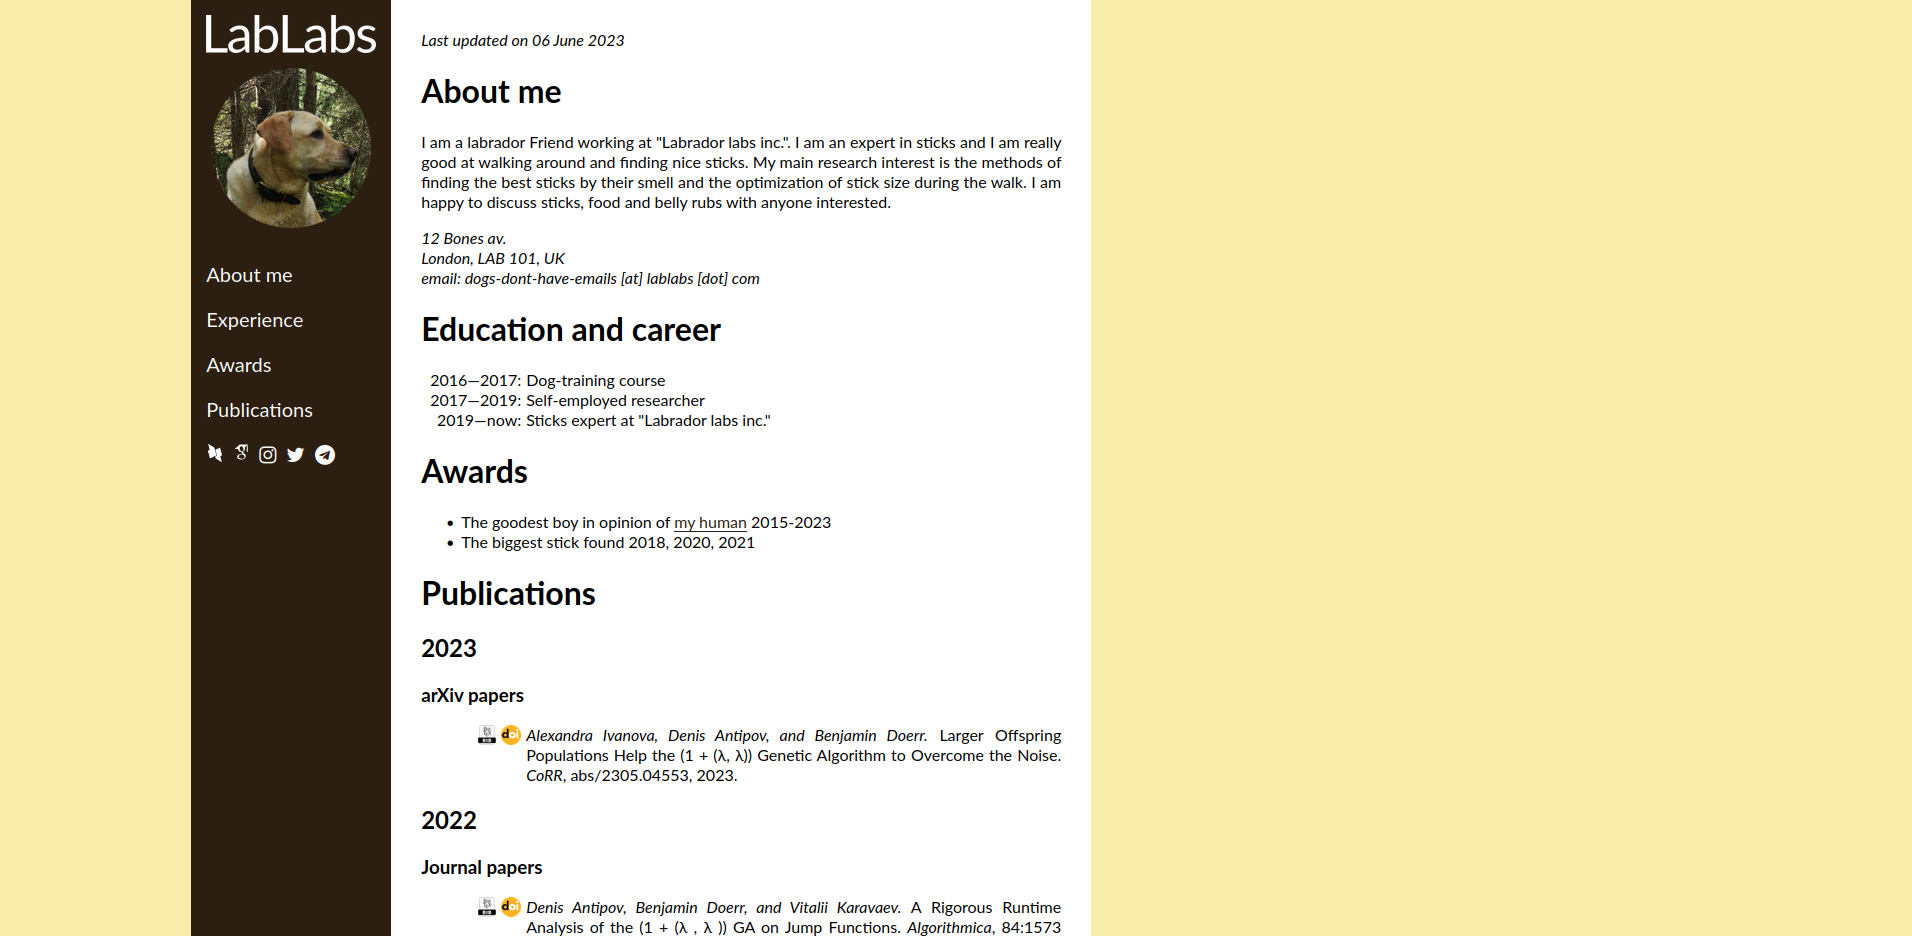
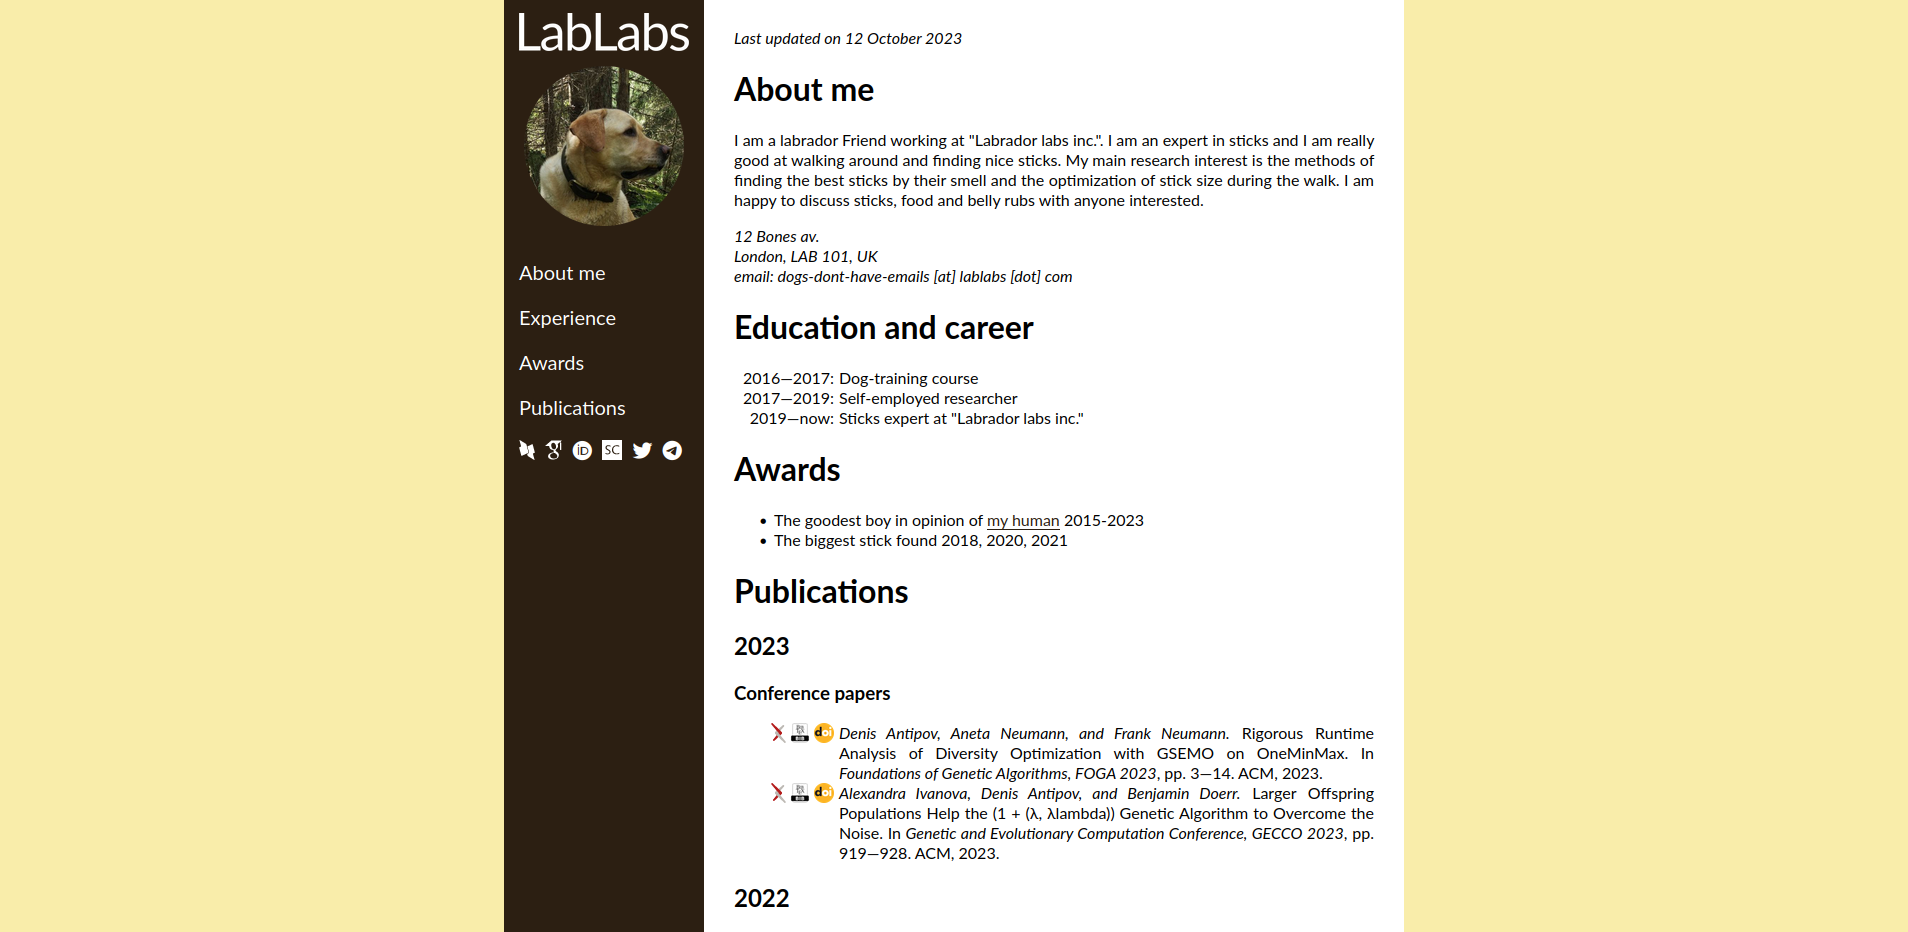
centralized content

diff --git a/template.html b/template.html
@@ -11,78 +11,78 @@
 </head>
 <body>
 
-    <div class="ceter-wrapper">
-    <nav class="sidebar sidebar-background sidebar-text" id="sidebar">
-        <a href="https://en.wikipedia.org/wiki/Labrador_Retriever" target="_blank"><img class="unilogo" src="images/UniLogo.png" alt="Uni logo" width="100"></a>
-        <a href="#" onclick="close_sidebar()" class="close-sidebar-button hover-background-color" title="close menu">
-            <i class="fa fa-remove"></i>
-        </a>
-        <img class="photo" src="images/me.jpg" alt="Photo of a handsome person">
-        <ul class="navi-menu">
-            {}
-        </ul>
-        <!-- list of contacts and social media links-->
+    <div class="center-wrapper">
+        <nav class="sidebar sidebar-background sidebar-text" id="sidebar">
+            <a href="https://en.wikipedia.org/wiki/Labrador_Retriever" target="_blank"><img class="unilogo" src="images/UniLogo.png" alt="Uni logo" width="100"></a>
+            <a href="#" onclick="close_sidebar()" class="close-sidebar-button hover-background-color" title="close menu">
+                <i class="fa fa-remove"></i>
+            </a>
+            <img class="photo" src="images/me.jpg" alt="Photo of a handsome person">
+            <ul class="navi-menu">
+                {}
+            </ul>
+            <!-- list of contacts and social media links-->
 
-        <div class="social-links-block">
-            {}
+            <div class="social-links-block">
+                {}
+            </div>
+
+        </nav>
+
+        <div class="overlay" onclick="close_sidebar()" title="close menu" id="overlay"></div>
+        <a href="#" class="up-button" id="up-btn"><i class="fa fa-chevron-up"></i></a>
+
+        <div class="main">
+            <div class="header content-background">
+                <span class="open-sidebar-button hover-background-color open-sidebar-button-color" onclick="open_sidebar()"><i class="fa fa-bars"></i></span>
+                <img class="small-photo" src="images/me.jpg" alt="Photo of a handsome person">
+            </div>
+
+            
+            <div class="content content-background">
+                <p style="margin:0px"><i>Last updated on {}</i></p>
+                {}
+            </div>
         </div>
 
-    </nav>
-
-    <div class="overlay" onclick="close_sidebar()" title="close menu" id="overlay"></div>
-    <a href="#" class="up-button" id="up-btn"><i class="fa fa-chevron-up"></i></a>
-
-    <div class="main">
-        <div class="header content-background">
-            <span class="open-sidebar-button hover-background-color open-sidebar-button-color" onclick="open_sidebar()"><i class="fa fa-bars"></i></span>
-            <img class="small-photo" src="images/me.jpg" alt="Photo of a handsome person">
-        </div>
-
-        
-        <div class="content content-background">
-            <p style="margin:0px"><i>Last updated on {}</i></p>
-            {}
-        </div>
-    </div>
-
-    <script>
-        function open_sidebar() {{
-            document.getElementById("sidebar").style.display = "block";
-            document.getElementById("overlay").style.display = "block";
-        }}
-        
-        function close_sidebar() {{
-            document.getElementById("sidebar").style.display = "none";
-            document.getElementById("overlay").style.display = "none";
-        }}
-
-        function close_all_bibtex_windows() {{
-            var dropdowns = document.getElementsByClassName("bibtex-window");
-            var i;
-            for (i = 0; i < dropdowns.length; i++) {{
-                dropdowns[i].style.display = "none"
+        <script>
+            function open_sidebar() {{
+                document.getElementById("sidebar").style.display = "block";
+                document.getElementById("overlay").style.display = "block";
             }}
-        }}
+            
+            function close_sidebar() {{
+                document.getElementById("sidebar").style.display = "none";
+                document.getElementById("overlay").style.display = "none";
+            }}
 
-        function show(id) {{
-            close_all_bibtex_windows()
-            document.getElementById(id).style.display = "block";
-        }}
+            function close_all_bibtex_windows() {{
+                var dropdowns = document.getElementsByClassName("bibtex-window");
+                var i;
+                for (i = 0; i < dropdowns.length; i++) {{
+                    dropdowns[i].style.display = "none"
+                }}
+            }}
 
-        window.onclick = function(event) {{
-            if (!event.target.classList.contains('image-button') && !event.target.classList.contains('bibtex-window')  && event.target.tagName != 'PRE') {{
+            function show(id) {{
                 close_all_bibtex_windows()
+                document.getElementById(id).style.display = "block";
             }}
-        }}
 
-        window.onscroll = function() {{
-            if (document.body.scrollTop > 20 || document.documentElement.scrollTop > 20) {{
-                document.getElementById("up-btn").style.display = "block";
-            }} else {{
-                document.getElementById("up-btn").style.display = "none";
+            window.onclick = function(event) {{
+                if (!event.target.classList.contains('image-button') && !event.target.classList.contains('bibtex-window')  && event.target.tagName != 'PRE') {{
+                    close_all_bibtex_windows()
+                }}
             }}
-        }}
-    </script>
+
+            window.onscroll = function() {{
+                if (document.body.scrollTop > 20 || document.documentElement.scrollTop > 20) {{
+                    document.getElementById("up-btn").style.display = "block";
+                }} else {{
+                    document.getElementById("up-btn").style.display = "none";
+                }}
+            }}
+        </script>
     </div>
 </body>
 

diff --git a/styles.css b/styles.css
@@ -4,7 +4,6 @@ body {
     font-size: 16px;
     /* color 3 */
     background-color: #f9edaa;
-    padding-left: 10%;
 }
 
 .sidebar-background, .up-button{
@@ -169,7 +168,6 @@ body {
     height: 100%;
     width: 200px;
     position: fixed;
-    left: 10%;
     top: 0;
     z-index: 2;
     overflow: auto;
@@ -228,6 +226,11 @@ body {
     text-align: justify;
 }
 
+.center-wrapper {
+    display: flex;
+    margin: auto;
+}
+
 @media (max-width:899px) {
     .sidebar {
         display: none;
@@ -244,6 +247,7 @@ body {
     
     .main {
         margin-left:0px;
+        width: 100%;
     }
 
     .unilogo {
@@ -251,7 +255,11 @@ body {
     }
 
     .content {
-        max-width: 100%;
+        width: 100%;
+    }
+
+    .center-wrapper {
+        width: 100%;
     }
 
     .list-item {
@@ -277,31 +285,15 @@ body {
     }
 
     .content {
-        max-width: 640px;
+        width: 640px;
     }
 
     .list-item {
         min-width: 100px;
     }
-}
 
-@media (max-width:1199px){
-    body {
-        padding-left: 0px;
-    }
-
-    .sidebar {
-        left: 0;
-    }
-}
-
-@media (min-width:1200px){
-    body {
-        padding-left: 10%;
-    }
-
-    .sidebar {
-        left: 10%;
+    .center-wrapper {
+        width: 900px;
     }
 }
 

diff --git a/publications.py b/publications.py
@@ -51,7 +51,8 @@ def gen_html_by_database(bib_database, rename_conferences=False):
             entry['OPTeditor'] = entry.pop('editor')
         unnecessary_fields = ['timestamp', 'biburl', 'bibsource', 'IDsuffix']
         for field in unnecessary_fields:
-            del entry[field]
+            if field in entry:
+                del entry[field]
 
     # renaming conferences and journals, 
     # this part of the script must be customized according to your personal needs and preferences
@@ -62,7 +63,10 @@ def gen_html_by_database(bib_database, rename_conferences=False):
                     continue
                 # GECCO
                 if 'GECCO' in entry['booktitle']:
-                    entry['booktitle'] = 'Genetic and Evolutionary Computation Conference, {{GECCO}} {}'.format(entry['year'])
+                    if 'Companion' in entry['booktitle']:
+                        entry['booktitle'] = 'Genetic and Evolutionary Computation Conference Companion, {{GECCO}} {}'.format(entry['year'])
+                    else:
+                        entry['booktitle'] = 'Genetic and Evolutionary Computation Conference, {{GECCO}} {}'.format(entry['year'])
                 # PPSN
                 if 'PPSN' in entry['booktitle']:
                     if 'Part' in entry['booktitle']: 

diff --git a/README.md b/README.md
@@ -11,7 +11,7 @@ This is a simple generator of a personal page, which is optimized for the people
     - \[Optional\] Prepare a bibliography file to be added to your webpage
 3. Run the generator script
     - Prepare the dependencies (Python 3 and several packages for it)
-    - If you chose to add the list of publications, this script will try to add a link to arXiv to your conference or journal papers, but sometimes it needs some assistance from you
+    - If you chose to add the list of publications, this script will try to add an arXiv link to your conference or journal papers, but sometimes it needs some assistance from you
 4. Put the generated `index.html` file together with `styles.css` and the folders `fonts` and `images` to your server
  
 ## Example pages
@@ -36,12 +36,8 @@ Mobile view (with open and closed menu):
 
 Wide screen view:
 
-
 <img src='./screenshots/desktop.png' height=400pt> 
 
-Half-screen view (no margin to the left from the menu):
-
-<img src='./screenshots/desktop-half.png' height=400pt> 
 
 # Adjusting the design
 
@@ -57,14 +53,14 @@ Most universities and companies have their own corporate style, which includes t
 2. Sidebar text color *(suggestion: choose white color or the whitest color from palette)*
 3. Margin color *(suggestion: choose some kind of light color, or you can choose a sidebar color and add some opacity to it)*
 4. Content background color *(suggestion: choose white)*
-5. Background color for buttons when you hover over them *(suggestion: choose something brighter than the background, but text in sidebar-text-color must look well on it)
+5. Background color for buttons when you hover over them *(suggestion: choose something brighter than the background, but text in sidebar-text-color must look well on it)*
 6. [Optional] The color for the links on the page *(suggestion: choose the sidebar color for the visited links and the background color for buttons for the unvisited links)*
 
 The screenshot below explains the colors in the webpage:
 
 <img src='./screenshots/colors-illustration.png' height=400pt> 
 
-To setup corresponding colors yoy should edit `styles.css` file. The comments in that file indicate, where you should change the colors. Note that all necessary colors are set up in the beginning of the file, in the first 51 lines.
+To setup corresponding colors you should edit `styles.css` file. The comments in that file indicate, where you should change the colors. Note that all necessary colors are set up in the beginning of the file, in the first 51 lines.
 
 
 ### Changing the logo and your photo
@@ -86,7 +82,7 @@ To prepare the content you should edit `content.md` file. This file uses a markd
 1. The first line of `content.md` should contain your name (it will be displayed in the tab name in the viewer's browser)
 2. The next lines are the links to your pages at social media, which are displayed in the sidebar (in the same order as you mention them in `content.md`). The supported links are: DBLP, Google Scholar, ORCID, ResearchGate, Scopus, LinkedIn, Telegram, Facebook, Twitter and Instagram.
 3. After that `content.md` contains the actual content of the page, which is divided into sections.
-    - Each section starts with its name, which is a line starting with a `#` symbol. Each section has its own link in the sidebar menu. By default, you will see in the sidebar tha actual name of the section, but if you want to shorten it, you can add a short name for it after another `#` symbol in the same line, like this:     
+    - Each section starts with its name, which is a line starting with a `#` symbol. Each section has its own link in the sidebar menu. By default, you will see in the sidebar the actual name of the section, but if you want to shorten it, you can add a short name for it after another `#` symbol in the same line, like this:     
     
         `# The name of the section # Short name`
     - Then you add the content of the section, which can be a paragraph, a list or a list with specific items
@@ -99,7 +95,7 @@ To prepare the content you should edit `content.md` file. This file uses a markd
         `[click me to get to google](https://google.com)`
     - To add a list you just add a bunch of lines, each of which starts with `-`. An example of a section with a list is the "Awards" section on the screenshots above. you also can use HTML or Markdown features in the lists.
     - The lists with specified items are mostly used for the lists with dates (e.g., working experience or education). The example is the "Education and career section" in the screenshots above. To make such a list, you should start each line with `*` symbol and use the column `:` to separate the dates from the item content. 
-    - If you name some section "Publications", then the generator can fill it with the list of you publication (see instructions on it below). You can also add some content here, it will be added after the list of publications.
+    - If you name some section "Publications", then the generator can fill it with the list of your publication (see instructions on it below). You can also add some content here, it will be added after the list of publications.
 
 ## [Optional] Preparing the bibliography
 
@@ -108,6 +104,8 @@ If you want to have a list of publications, you have two options:
 2. Prepare a `.bib` file, containing all your publications.
 
 The main reasons to prepare your `.bib` file is that you accepted but not published papers are not shown at DBLP. Also, you might find the DBLP format of conference names clumsy, e.g., you do not want to include the dates and the hosting city, so you can edit your bib file as you want. 
+
+**\[Advanced\]** The publication generator can also automatically replace the unwanted names of conferences and journals. The rules for this are defined in lines 58-86 of `publications.py` script and can be edited manually.
 
 # Run the generator
 
@@ -147,7 +145,7 @@ or
 
     python3 html-generator.py -c -il https://dblp.org/pid/160/0973.html
 
-The order if arguments does not play any role.
+The order of arguments does not play any role.
 
 ## While running the script
 
@@ -174,7 +172,7 @@ To choose one of the options you should enter the number of this option and pres
 3. The last two digits of the year it was published
 4. If there are two identical IDs, then the name of the journal or conference is added.
 
-After the script finishes its work, you can view the resulting file `index.html` in your favorite browser and fix the mistakes you made in the previous steps. Note that to fixe the style mistakes you do not have to re-run the script, just edit `style.css` file.
+After the script finishes its work, you can view the resulting file `index.html` in your favorite browser and fix the mistakes you made in the previous steps. Note that to fix the style mistakes you do not have to re-run the script, just edit `style.css` file.
 
 # Upload your web-page to your server
 

diff --git a/content.md b/content.md
@@ -21,7 +21,7 @@ I am a labrador Friend working at "Labrador labs inc.". I am an expert in sticks
 
 # Awards
 
-- The goodest boy in opinion of [my human](https://ctlab.itmo.ru/~dantipov/) 2015-2023
+- The goodest boy in opinion of [my human](https://cs.adelaide.edu.au/~denis/) 2015-2023
 - The biggest stick found 2018, 2020, 2021
 
 # Publications
